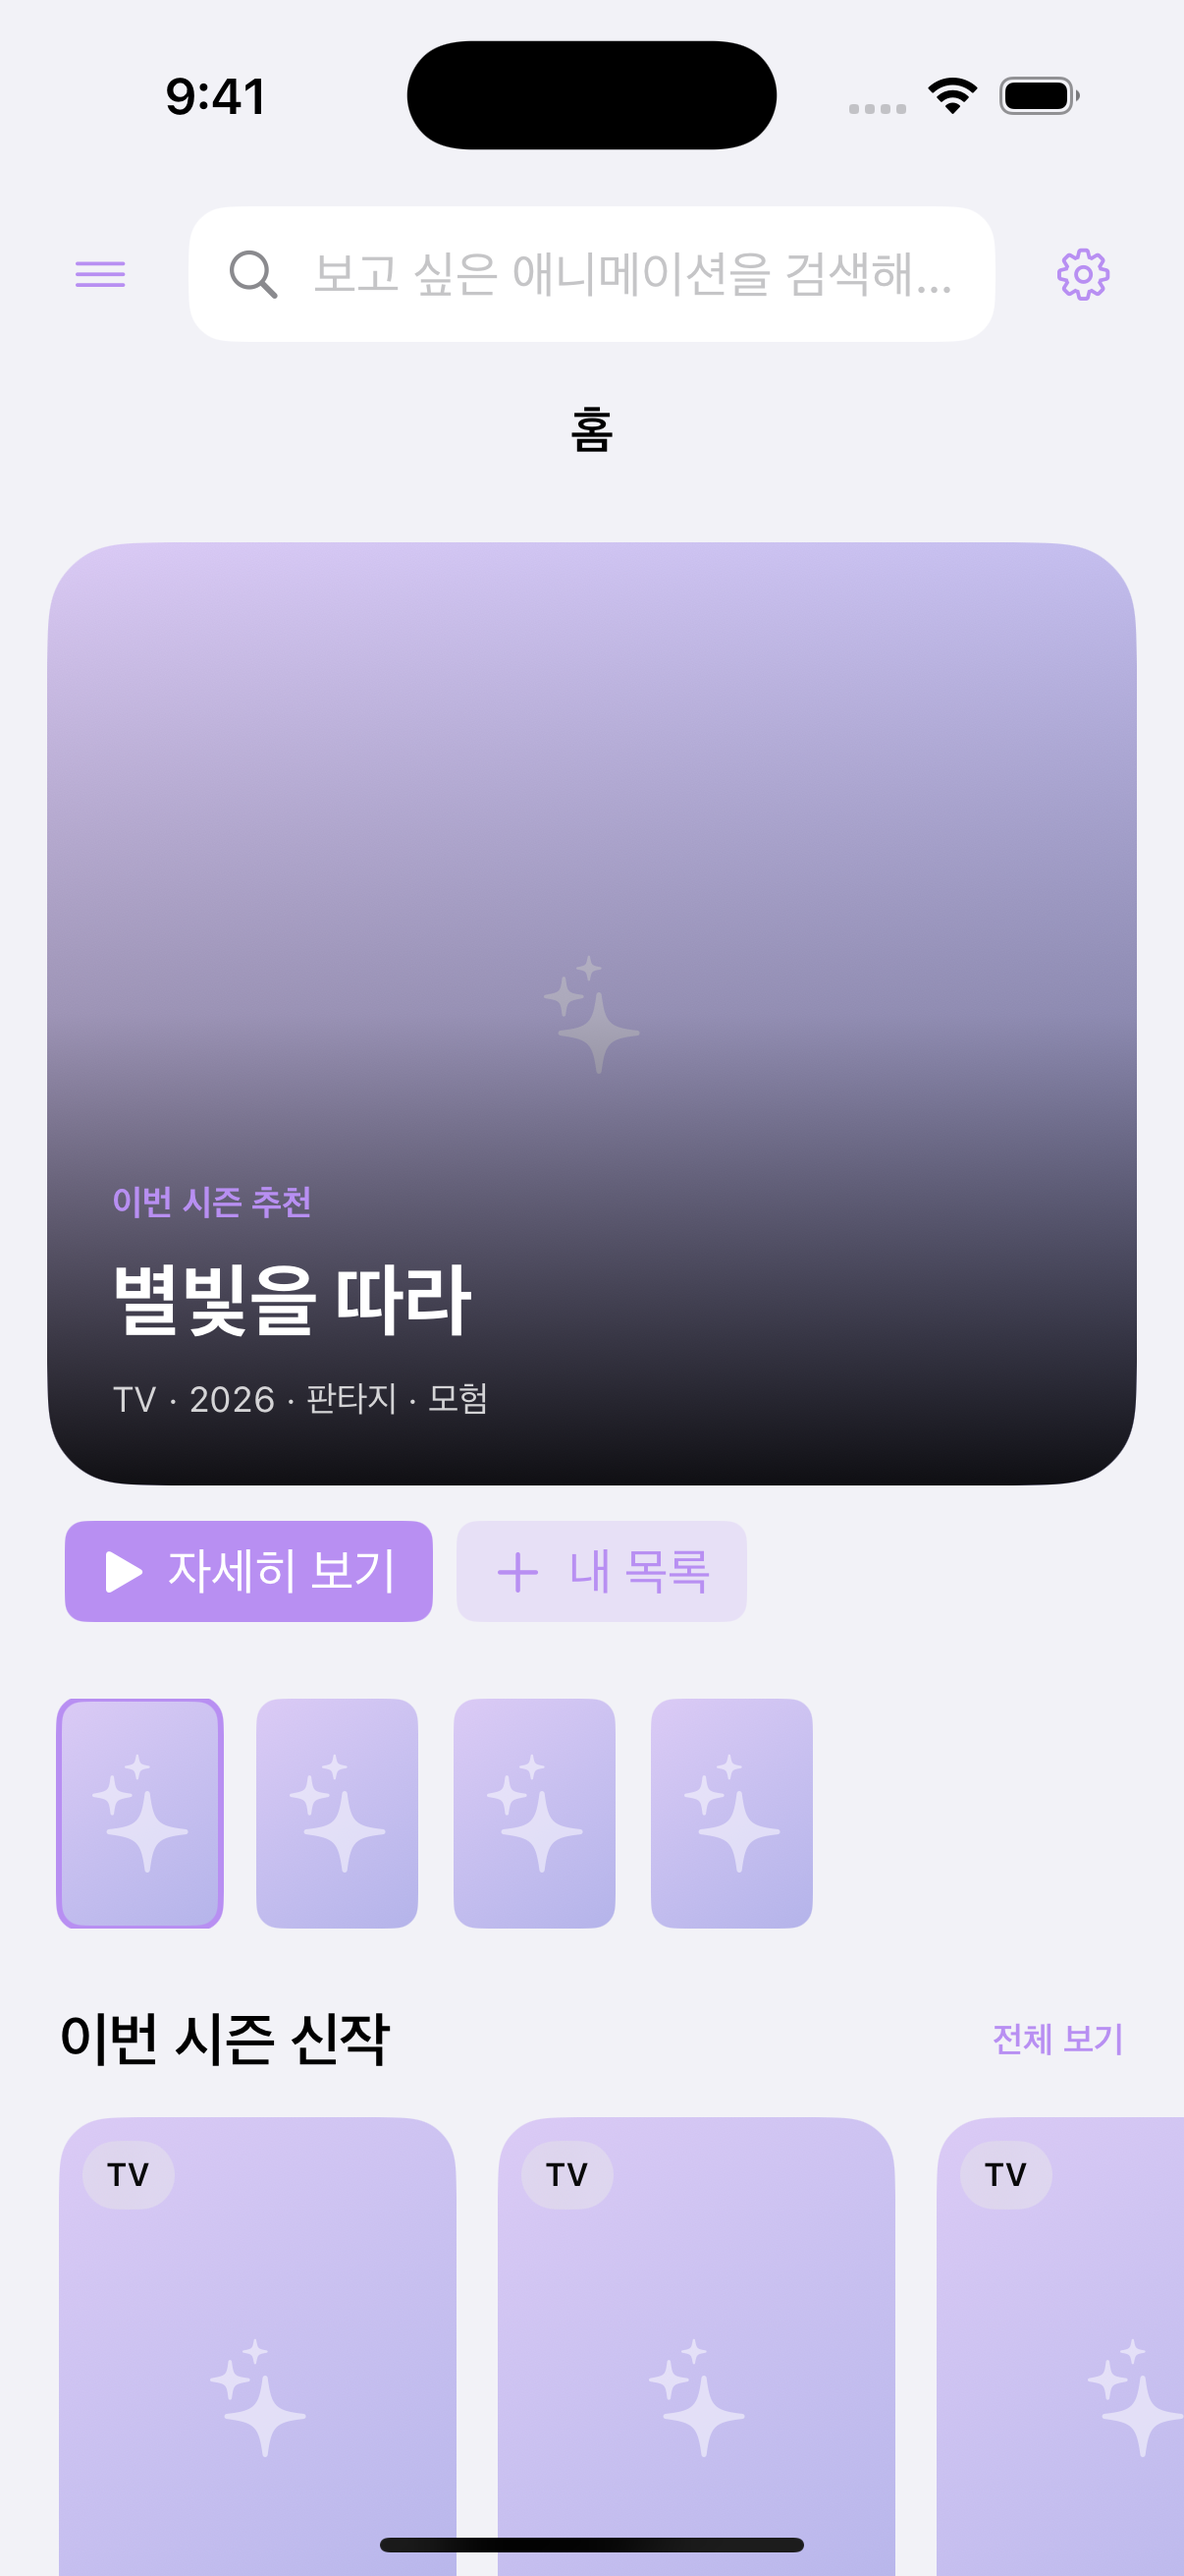
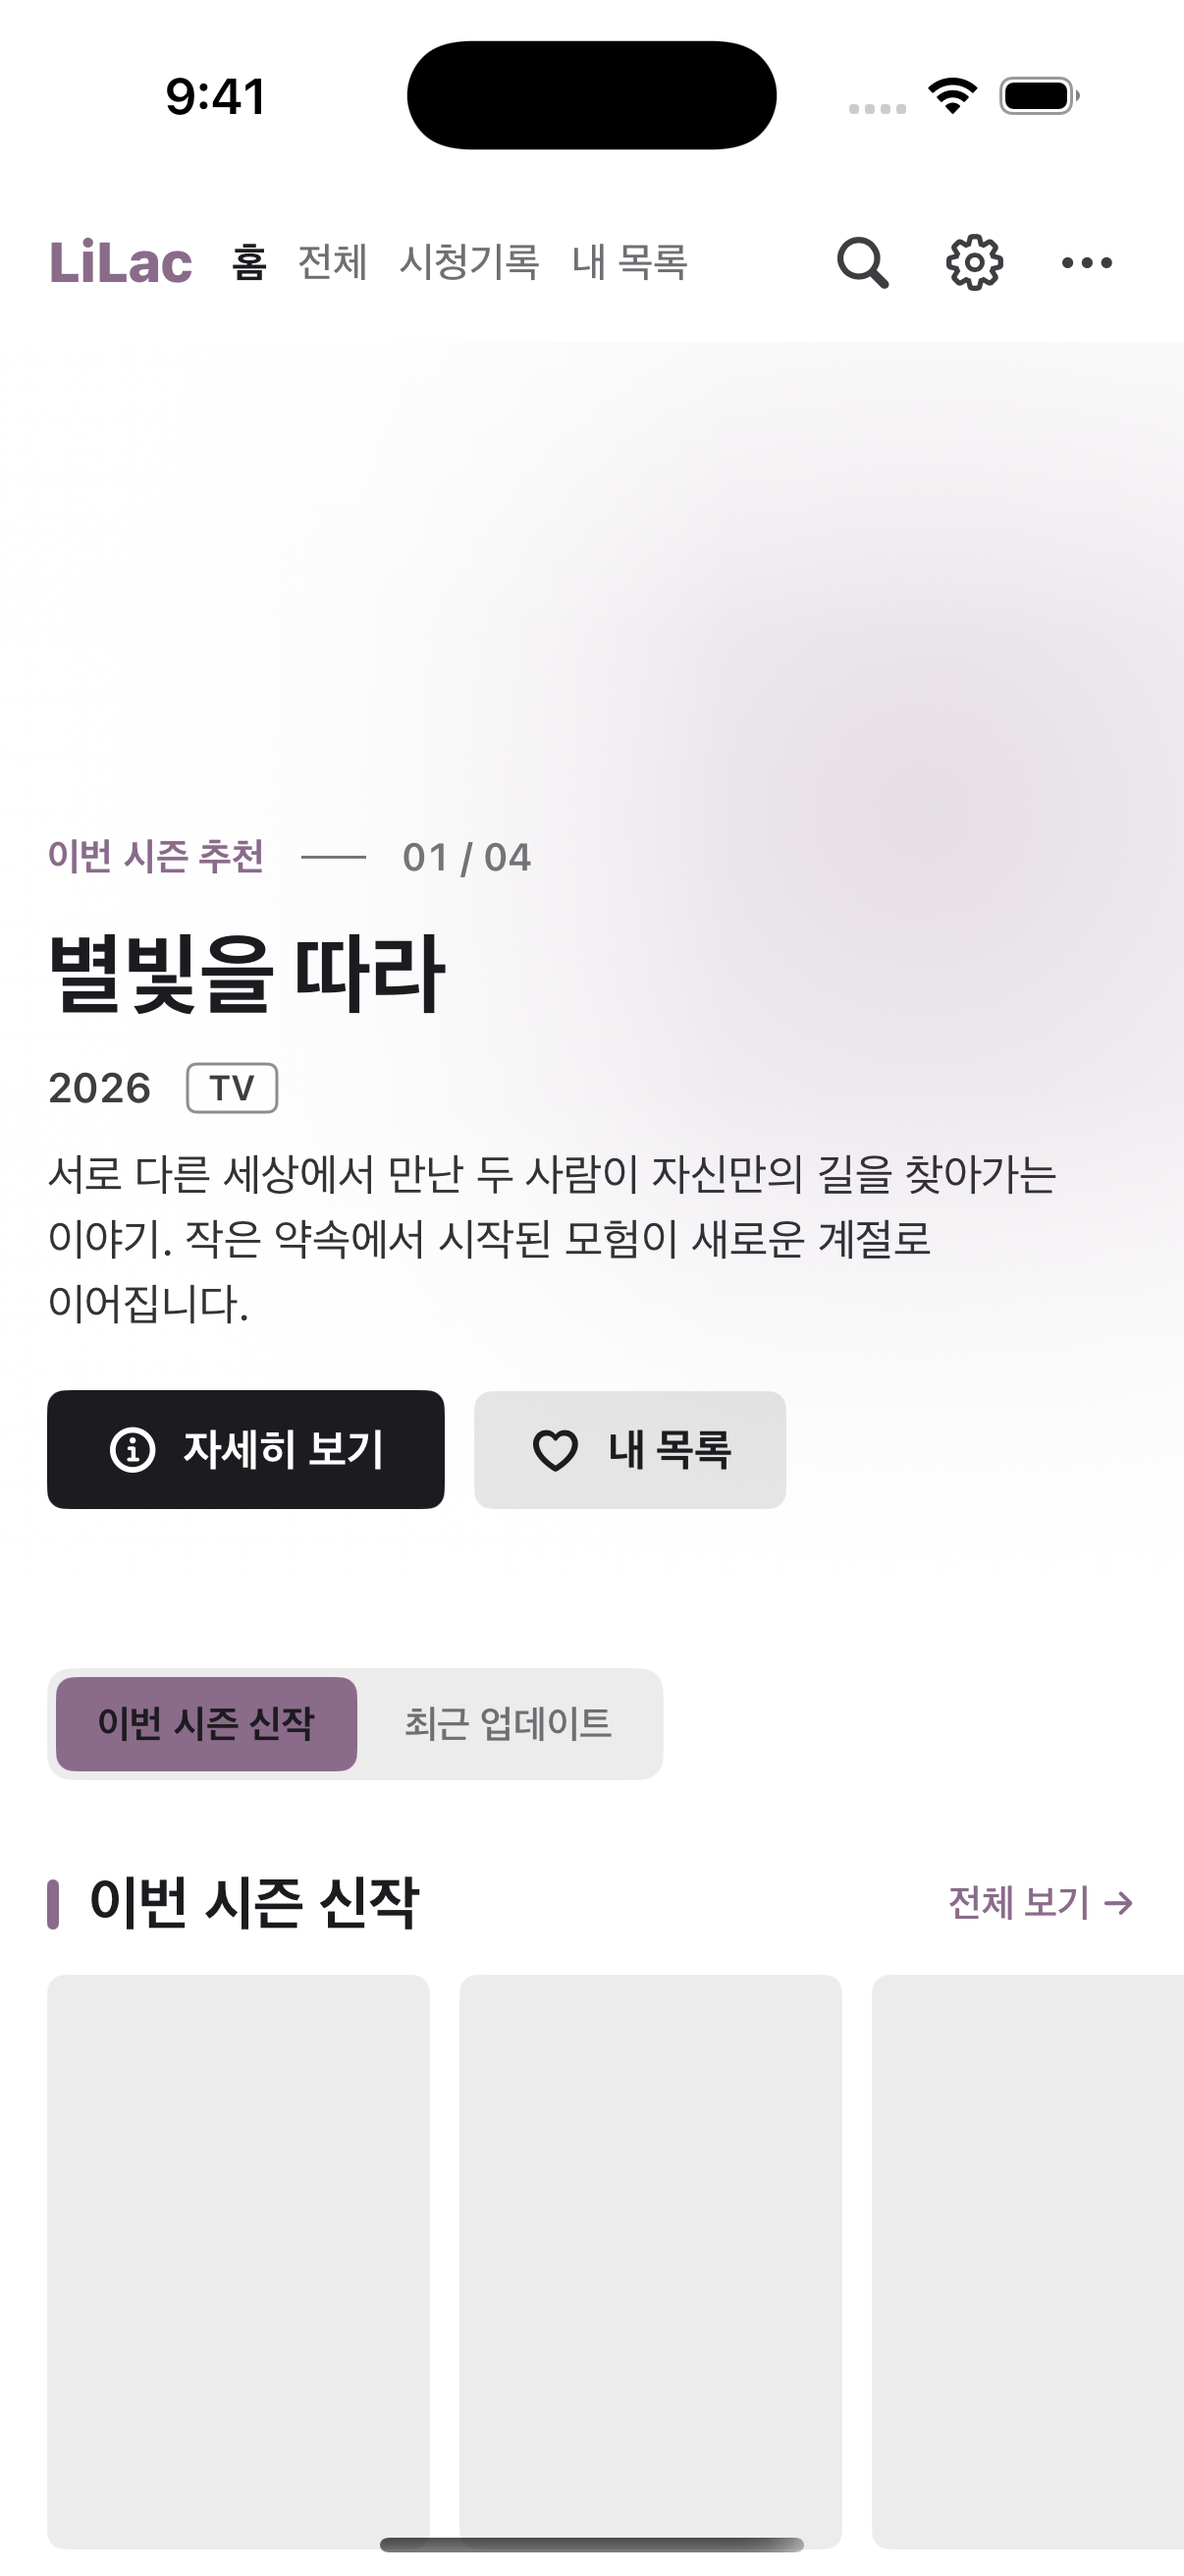
Refresh README for the desktop-style iOS UI with verified captures

diff --git a/README.md b/README.md
@@ -4,6 +4,7 @@
 
 <p align="center">
   <a href="https://github.com/whispelyn-byte/LilacAnime-ios/releases/latest"><img src="https://img.shields.io/github/v/release/whispelyn-byte/LilacAnime-ios?label=%EC%B5%9C%EC%8B%A0%20%EB%B2%84%EC%A0%84&color=b98fd6" alt="최신 버전"></a>
+  <a href="https://github.com/whispelyn-byte/LilacAnime-ios/actions/workflows/kmp.yml"><img src="https://img.shields.io/github/actions/workflow/status/whispelyn-byte/LilacAnime-ios/kmp.yml?branch=main&event=workflow_dispatch&label=iOS%20%EB%B9%8C%EB%93%9C" alt="iOS 빌드와 테스트 상태"></a>
   <img src="https://img.shields.io/badge/iOS-16%2B-555555?logo=apple" alt="iOS 16 이상">
   <img src="https://img.shields.io/badge/iPhone%20%C2%B7%20iPad-SideStore-555555" alt="iPhone · iPad, SideStore">
 </p>
@@ -35,9 +36,9 @@
 - [문제 해결](#문제-해결) · [저장 위치](#저장-위치) · [개발](#개발) · [크레딧](#크레딧)
 
 <p align="center">
-  <img src="docs/screenshots/home-dark.png" width="230" alt="홈">
+  <img src="docs/screenshots/workspace-iphone-dark.png" width="230" alt="iPhone 홈과 상단 탐색 메뉴">
   <img src="docs/screenshots/detail-dark.png" width="230" alt="작품 상세">
-  <img src="docs/screenshots/player-dark.png" width="230" alt="플레이어">
+  <img src="docs/screenshots/catalog-dark.png" width="230" alt="전체 작품과 상세 필터">
 </p>
 
 ## 주요 기능
@@ -53,13 +54,23 @@
 
 | | |
 |---|---|
-| <img src="docs/screenshots/catalog-dark.png" width="260" alt="전체"> | <img src="docs/screenshots/models-dark.png" width="260" alt="로컬 AI 모델"> |
-| **전체** · 소스의 전체 작품, 한국어 검색과 상세 필터 | **설정 > 자막 자동 번역 > 로컬 GGUF 모델** |
+| <img src="docs/screenshots/settings-dark.png" width="260" alt="설정 분류와 일반 설정"> | <img src="docs/screenshots/models-dark.png" width="260" alt="로컬 AI 모델"> |
+| **설정** · 분류를 고르고 항목별로 변경 | **설정 > 자막 자동 번역 > 로컬 GGUF 모델** |
 
 <p align="center"><img src="docs/screenshots/workspace-ipad-dark.png" width="700" alt="iPad 홈"></p>
-<p align="center"><b>iPad</b> · 왼쪽 메뉴와 본문을 함께 표시</p>
+<p align="center"><b>iPad</b> · 상단 탐색 메뉴와 검색창, 넓은 홈 화면</p>
 
-화면은 시뮬레이터에서 예시 데이터로 찍은 것입니다 (실제 작품 이미지가 아닙니다).
+<p align="center"><img src="docs/screenshots/player-dark.png" width="700" alt="가로 전체 화면 플레이어"></p>
+
+| 탭 | 설정 화면 |
+|---|---|
+| **재생** | <img src="docs/screenshots/player-settings-dark.png" width="600" alt="플레이어 재생 설정"> |
+| **자막** | <img src="docs/screenshots/player-settings-1-dark.png" width="600" alt="플레이어 자막 선택과 번역"> |
+| **자막 모양** | <img src="docs/screenshots/player-settings-2-dark.png" width="600" alt="플레이어 자막 글꼴과 모양"> |
+
+플레이어 설정은 화면 오른쪽 패널에서 **재생 · 자막 · 자막 모양** 탭으로 나뉩니다. 영상을 보면서 화질·배속·화면 맞춤, 자막 선택·번역, 글꼴·크기·싱크를 바꿀 수 있습니다.
+
+화면은 `main` 브랜치의 앱을 iPhone · iPad 시뮬레이터에서 예시 데이터로 찍은 것입니다. 실제 작품 이미지가 아니며, 아직 릴리즈되지 않은 UI 변경이 포함될 수 있습니다. [캡처 기준과 다시 찍는 방법](docs/screenshots/README.md)
 
 ## 설치
 
@@ -86,7 +97,9 @@ https://github.com/whispelyn-byte/LilacAnime-ios/releases/latest/download/source
 
 ## 처음 쓸 때
 
-화면 위쪽 검색창 왼쪽의 **메뉴** 버튼(iPad는 왼쪽 목록)으로 홈 · 전체 · 검색 · 시청기록 · 내 목록 · 설정을 오갑니다. 설정은 검색창 오른쪽의 톱니바퀴로도 열 수 있고, 위쪽에서 분류를 고르면 그 설정이 나옵니다.
+화면 위쪽의 **홈 · 전체 · 시청기록 · 내 목록**으로 이동합니다. iPhone은 돋보기 버튼으로 검색 화면을 열고, iPad는 상단 검색창에 바로 입력합니다. **톱니바퀴**는 설정, **더보기(···)**는 로컬 영상 열기와 영상 소스 선택입니다. iPhone에서 상단 항목이 다 보이지 않으면 가로로 밀어 볼 수 있습니다.
+
+설정의 분류는 iPhone에서는 위쪽 가로 목록, iPad에서는 왼쪽 세로 목록에 표시됩니다. **자막 자동 번역 > 로컬 GGUF 모델**에서 돌아올 때는 화면 위의 뒤로 가기를 누릅니다.
 
 1. **설정 > 재생 > 영상 소스**에서 볼 사이트를 고릅니다. 처음엔 RE:Anime입니다.
 2. **설정 > 일반 > 작품 제목 표시**에서 한국어 / 영어 / 원래 제목을 고릅니다.
@@ -98,7 +111,7 @@ https://github.com/whispelyn-byte/LilacAnime-ios/releases/latest/download/source
 ### 애니 보기
 
 1. 위쪽 검색창에 제목을 한국어로 입력하고 검색합니다.
-2. 또는 홈 맨 위의 **이번 시즌 추천**에서 고릅니다. 아래 작은 포스터를 누르면 그 작품으로 바뀌고, **자세히 보기**를 누르면 작품 화면이 열립니다. 이번 시즌 신작 · 인기 작품 · 방영 중을 둘러보다가 작품을 눌러도 됩니다.
+2. 또는 홈 맨 위의 **이번 시즌 추천**에서 고릅니다. iPhone에서는 추천 화면을 좌우로 밀고, 넓은 화면에서는 오른쪽 포스터를 눌러 작품을 바꿉니다. **자세히 보기**를 누르면 작품 화면이 열립니다. 이번 시즌 신작 · 인기 작품 · 방영 중을 둘러보다가 작품을 눌러도 됩니다.
 3. **전체**에서는 소스의 모든 작품을 한국어 · 원제 · 영어로 검색하고, 장르 · 형태 · 연도 · 분기 필터와 인기순 · 최신순 · 회차 업데이트순 · 평점순 정렬로 찾아봅니다. 소스가 제공하는 분류만 나옵니다.
 4. 홈의 **최근 업데이트**와 내 목록의 **회차 업데이트순**은 RE:Anime · Miruro · Animenosub · 애니24 · 링크애니에서 쓸 수 있습니다.
 
@@ -108,6 +121,8 @@ https://github.com/whispelyn-byte/LilacAnime-ios/releases/latest/download/source
 2. 보고 싶은 회차를 골라 눌러도 됩니다. 회차가 많으면 위쪽 범위 버튼으로 넘기고, **최신화순 / 오래된화순**으로 순서를 바꿉니다.
 3. 회차 옆 버튼은 그 회차만 내려받고, **전체 저장**은 모든 회차를 내려받습니다. → [오프라인으로 보기](#오프라인으로-보기)
 4. 하트를 누르면 **내 목록**에 담깁니다.
+
+작품 화면의 **회차 · 작품 정보 · 관련 작품** 탭에서 회차 목록, 줄거리·작품 정보, 관련 작품을 나눠 볼 수 있습니다.
 
 재생을 누르면 가로 전체 화면으로 바뀝니다. 자막은 앱이 알아서 찾아 입힙니다. 보다가 나가도 홈의 **계속 시청하기**나 **시청기록**에서 누르면 멈춘 곳부터 이어집니다.
 
@@ -265,7 +280,7 @@ https://github.com/whispelyn-byte/LilacAnime-ios/releases/latest/download/source
 ## 문제 해결
 
 **영상이 안 나오거나 계속 불러오기만 해요**
-- 사이트 서버가 멈춘 경우가 많습니다. **다시 시도**를 누르거나, 메뉴에서 **설정 > 재생 > 영상 소스**를 바꿔 다른 사이트에서 찾아봅니다.
+- 사이트 서버가 멈춘 경우가 많습니다. **다시 시도**를 누르거나, **설정 > 재생 > 콘텐츠 / 영상 소스**를 바꿔 다른 사이트에서 찾아봅니다. 상단 **더보기(···) > 영상 소스**에서도 바꿀 수 있습니다.
 - 플레이어 설정 > 재생 > **영상 서버 · 화질**에서 다른 서버나 낮은 화질을 골라 봅니다. **웹 플레이어 열기**로 사이트 화면에서 재생할 수도 있습니다.
 
 **한국어 자막을 못 찾아요**

diff --git a/docs/screenshots/README.md b/docs/screenshots/README.md
@@ -1,0 +1,24 @@
+# 화면 캡처
+
+이 폴더의 화면은 실제 iOS 앱을 시뮬레이터에서 실행해 찍은 것입니다. `--ui-preview`의 예시 작품을 사용하므로 실제 사이트의 작품 이미지·영상이나 네트워크 응답을 보여 주지는 않습니다.
+
+- 앱 커밋: [`bbf1b64`](https://github.com/whispelyn-byte/LilacAnime-ios/commit/bbf1b6491c1e35bad64e1736aa9eadca43774db5)
+- 캡처 실행: [KMP and iOS #38227691199](https://github.com/whispelyn-byte/LilacAnime-ios/actions/runs/38227691199)
+- 원본: 실행의 `ios-ui-preview` 아티팩트
+- 가로 화면은 PNG의 픽셀 방향을 화면에 맞게 회전했습니다. 화면 내용은 수정하지 않았습니다.
+
+| 파일 | 화면 |
+|---|---|
+| `home-dark.png`, `workspace-iphone-dark.png` | iPhone 상단 탐색 메뉴와 홈 |
+| `home-light.png` | iPhone 라이트 모드 홈 |
+| `workspace-ipad-dark.png` | iPad 상단 탐색 메뉴·검색창과 홈 |
+| `detail-dark.png` | 작품 소개, 회차 목록과 다운로드 |
+| `catalog-dark.png` | 전체 작품, 검색과 상세 필터 |
+| `settings-dark.png` | 설정 분류와 일반 설정 |
+| `models-dark.png` | 로컬 AI 모델 |
+| `player-dark.png` | 가로 전체 화면 플레이어 |
+| `player-settings-dark.png`, `player-settings-1-dark.png`, `player-settings-2-dark.png` | iPhone 재생·자막·자막 모양 설정 |
+| `player-settings-ipad-dark.png`, `player-settings-1-ipad-dark.png`, `player-settings-2-ipad-dark.png` | iPad 재생·자막·자막 모양 설정 |
+| `player-fit-*-ipad-dark.png` | iPad 맞춤·채움·늘림 |
+
+다시 찍으려면 GitHub Actions의 **KMP and iOS → Run workflow → capture_previews**를 켭니다. Apple Silicon Mac에서는 `CAPTURE_PREVIEWS=1 sh iosApp/scripts/verify.sh`로 테스트·빌드·캡처를 함께 실행할 수 있습니다. `verify.sh`가 생성하는 iPhone `home-dark.png`를 `workspace-iphone-dark.png`에도 복사합니다.
